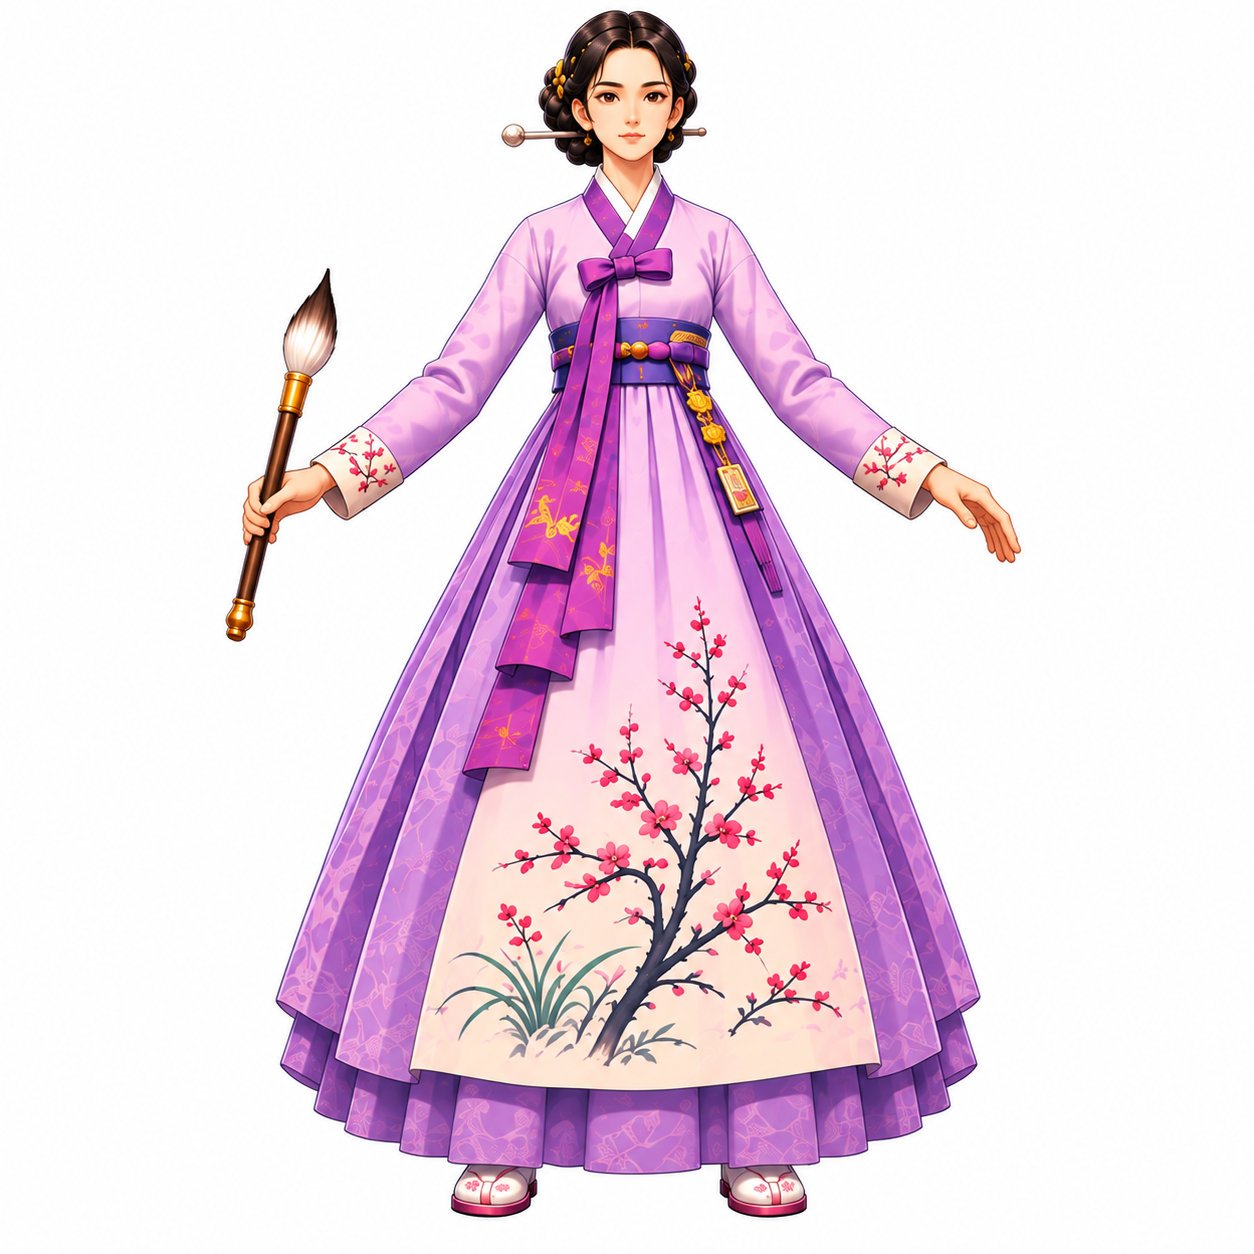
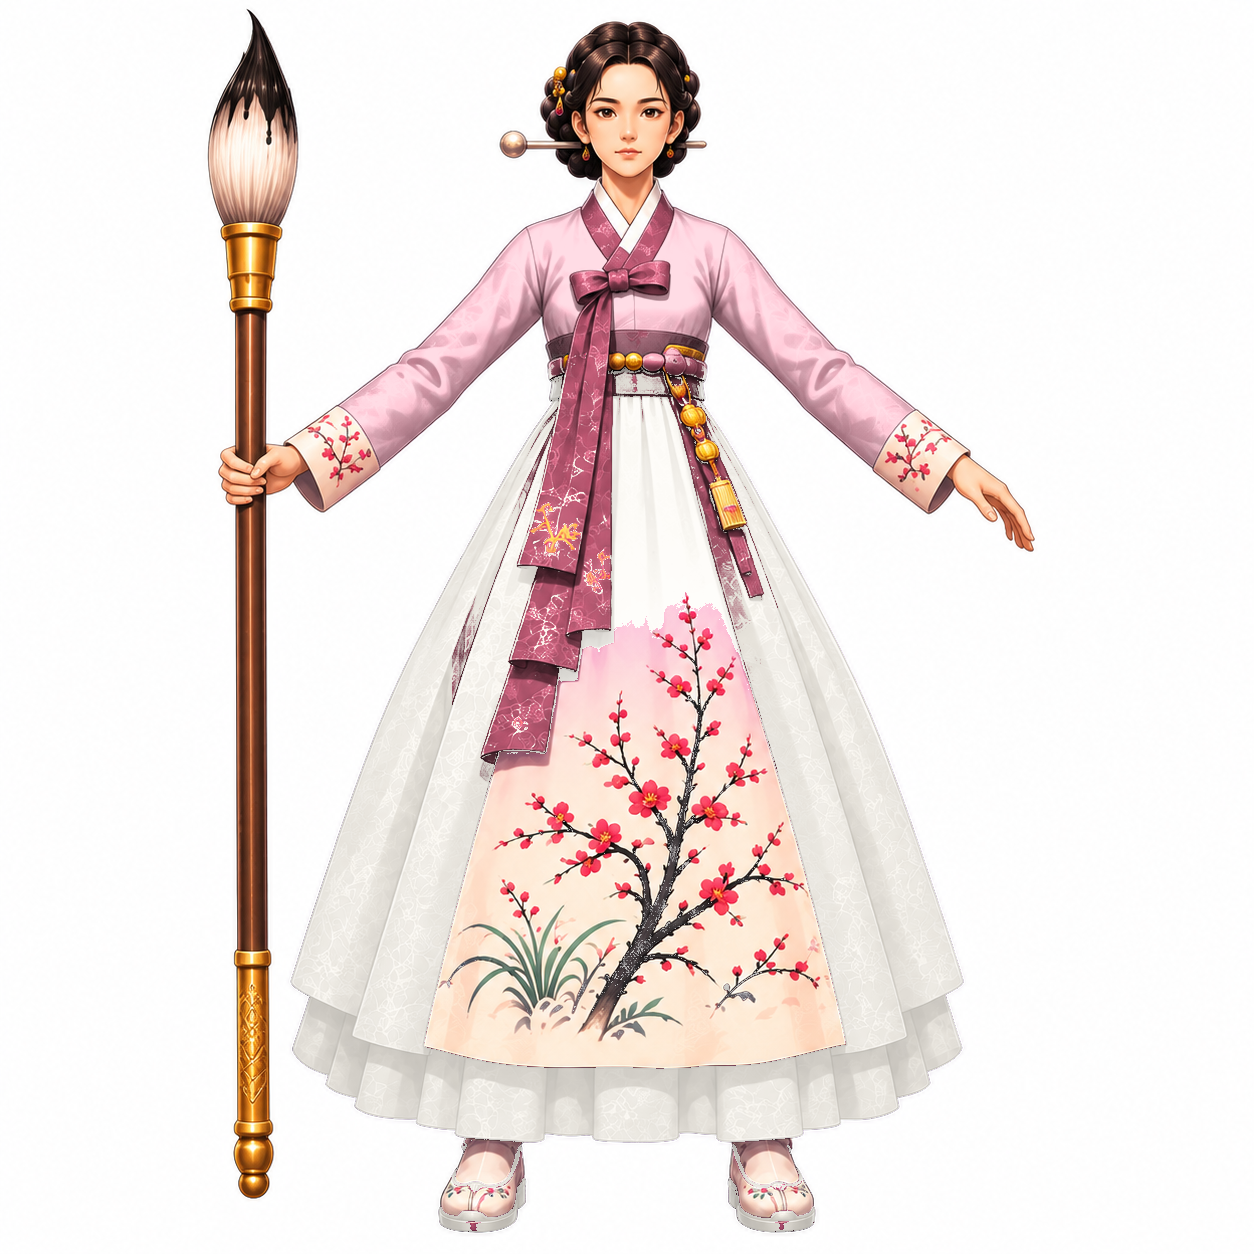
concept: hero A-pose sources with oversized weapons; 사임당 source recoloured (pink jeogori, ivory skirt, rose sash); Meshy configs keep the pose so weapons survive (not run yet)

Changed region(s): [[0.1555, 0.0, 0.8397, 0.9952]]

diff --git a/tools/art/recolor_saimdang_source.py b/tools/art/recolor_saimdang_source.py
@@ -1,0 +1,57 @@
+"""사임당 3D 원본 그림 색 바꾸기 (Meshy에 넣기 전): 보라 → 연분홍 저고리 + 미색 치마 + 진분홍 고름·띠.
+
+  python tools/art/recolor_saimdang_source.py
+입력: assets/concept/redesign/heroes/shin_saimdang_purple.png (GPT A자세, 큰 붓, 보라)
+출력: assets/concept/redesign/heroes/shin_saimdang.png (tools/ai3d/heroes/shin_saimdang.json이 읽는다)
+그림에서 먼저 바꾸면 3D 텍스처가 처음부터 이 색으로 나온다 (구운 뒤 recolor_saimdang.py를 돌릴 필요 없음).
+영역은 이 그림의 자세에 맞춘 값이다 (허리 높이, 소매·고름 위치) — 다른 그림이면 아래 수치를 다시 잡는다.
+"""
+import os
+
+import numpy as np
+from PIL import Image
+
+ROOT = os.path.abspath(os.path.join(os.path.dirname(__file__), "..", ".."))
+D = os.path.join(ROOT, "assets/concept/redesign/heroes")
+WAIST = 0.30        # 그림 높이 대비 허리 위치 (위 = 저고리)
+DEEP_S = 0.66       # 이보다 채도가 높은 보라 = 고름·띠
+SASH = (0.36, 0.62, 0.64)  # 고름·띠가 있는 영역: x 최소, x 최대, y 최대
+
+
+def main() -> None:
+    img = Image.open(os.path.join(D, "shin_saimdang_purple.png")).convert("RGB")
+    a = np.asarray(img).astype(np.float32) / 255
+    hsv = np.asarray(img.convert("HSV")).astype(np.float32)
+    h = hsv[..., 0] * 360 / 255
+    s = hsv[..., 1] / 255
+    v = hsv[..., 2] / 255
+    hh, ww = h.shape
+    yy = np.arange(hh)[:, None] / hh * np.ones((1, ww))
+    xx = np.arange(ww)[None, :] / ww * np.ones((hh, 1))
+    band = (h >= 235) & (h <= 335) & (s > 0.08)
+    upper = np.clip((WAIST - yy) / 0.02, 0, 1)
+    spread = np.clip(yy - WAIST + 0.01, 0, 1) * 0.75  # 소매는 허리 아래 높이까지 비스듬히 내려온다
+    sleeve = ((xx < 0.44 - spread) | (xx > 0.56 + spread)) & (yy < 0.44)
+    upper = np.maximum(upper, sleeve.astype(np.float32))
+    in_sash = (xx > SASH[0]) & (xx < SASH[1]) & (yy < SASH[2])
+    deep = np.clip((s - DEEP_S) / 0.08, 0, 1) * (in_sash | (upper > 0.5))
+
+    def rgb(hue: float, ss: np.ndarray, vv: np.ndarray) -> np.ndarray:
+        chans = (np.full(h.shape, hue / 360.0), ss, vv)
+        im = Image.merge("HSV", [Image.fromarray(np.uint8(np.clip(c, 0, 1) * 255)) for c in chans]).convert("RGB")
+        return np.asarray(im).astype(np.float32) / 255
+
+    pink = rgb(345.0, np.clip(s * 0.55, 0.14, 0.34), np.clip(v * 1.02 + 0.03, 0, 1))
+    rose = rgb(345.0, np.clip(s * 0.62, 0.35, 0.55), v * 0.97)
+    ivory = rgb(40.0, s * 0.08, 0.68 + 0.32 * v)
+    d3 = deep[..., None]
+    u3 = upper[..., None]
+    target = (pink * (1 - d3) + rose * d3) * u3 + (ivory * (1 - d3) + rose * d3) * (1 - u3)
+    w = (np.clip((s - 0.08) / 0.08, 0, 1) * band)[..., None]
+    out = Image.fromarray(np.uint8(np.clip(a * (1 - w) + target * w, 0, 1) * 255))
+    out.save(os.path.join(D, "shin_saimdang.png"))
+    print("shin_saimdang.png", out.size)
+
+
+if __name__ == "__main__":
+    main()
